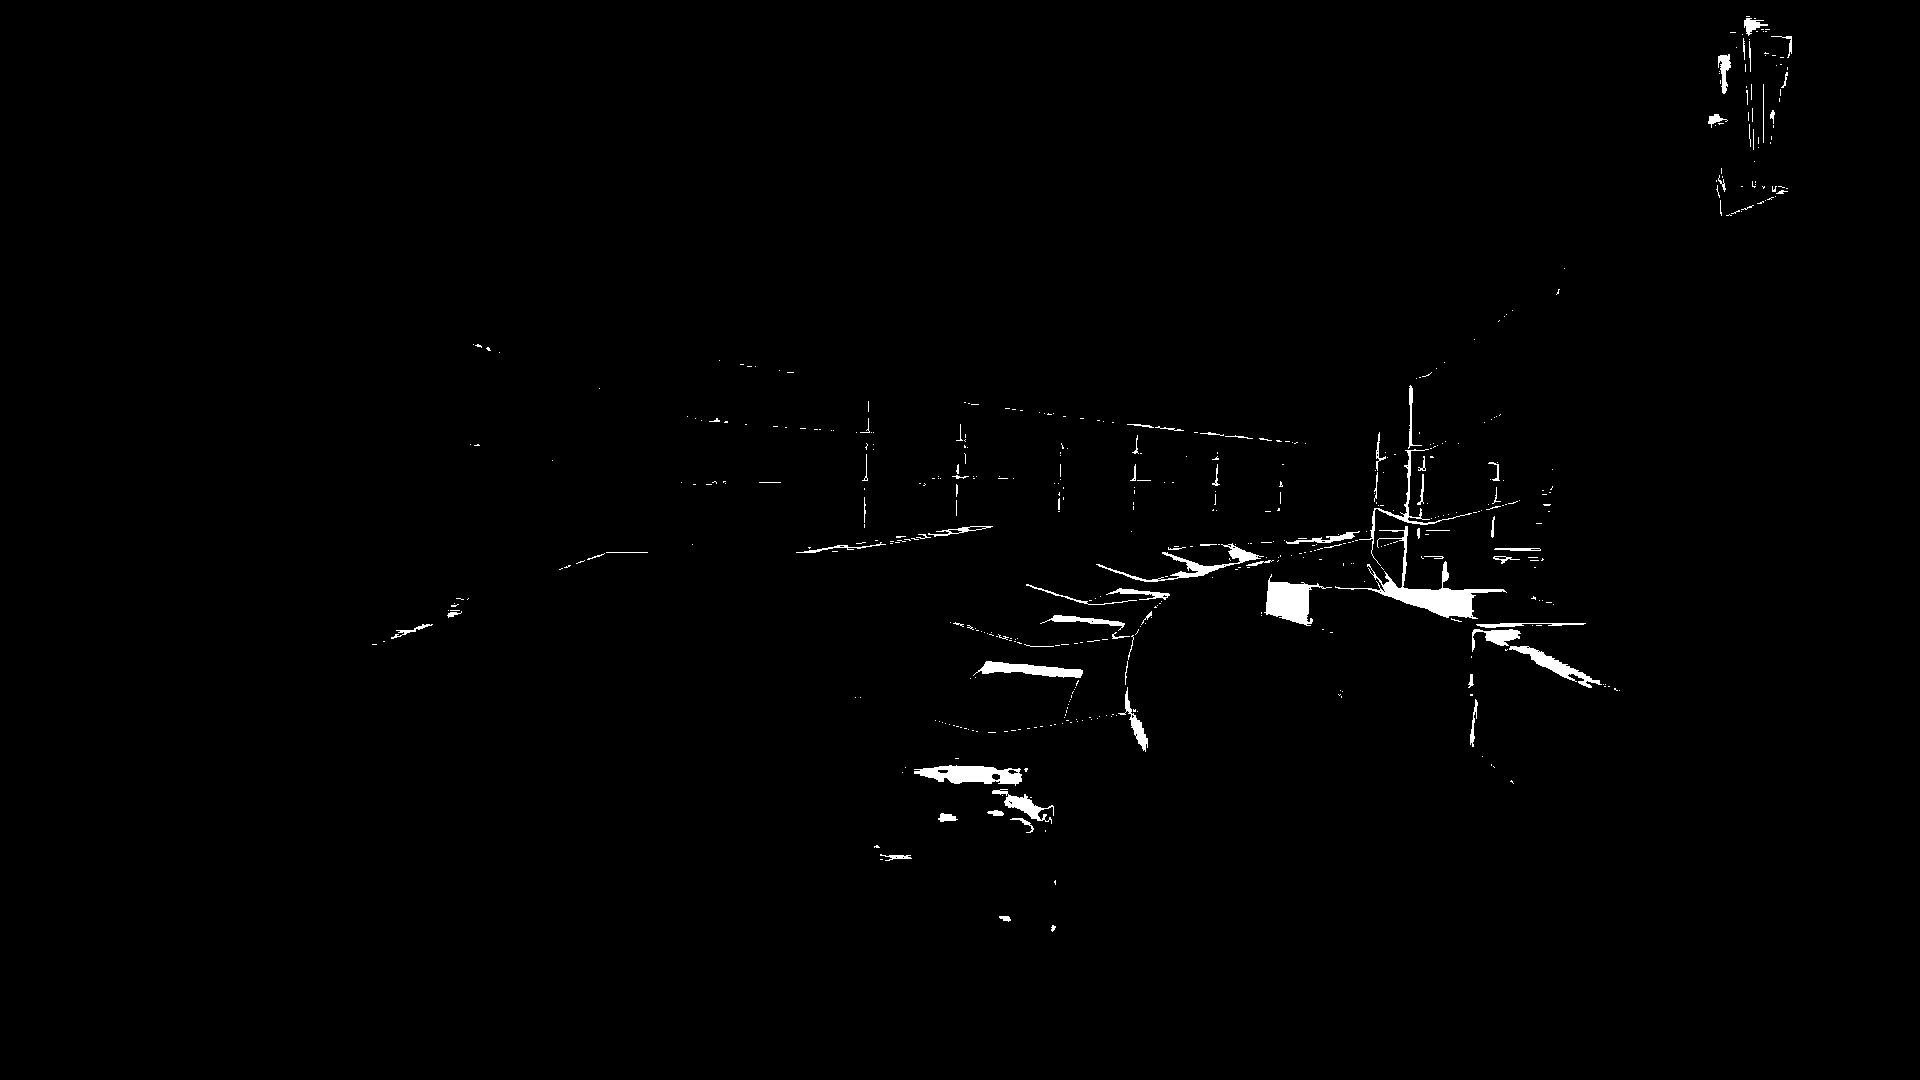
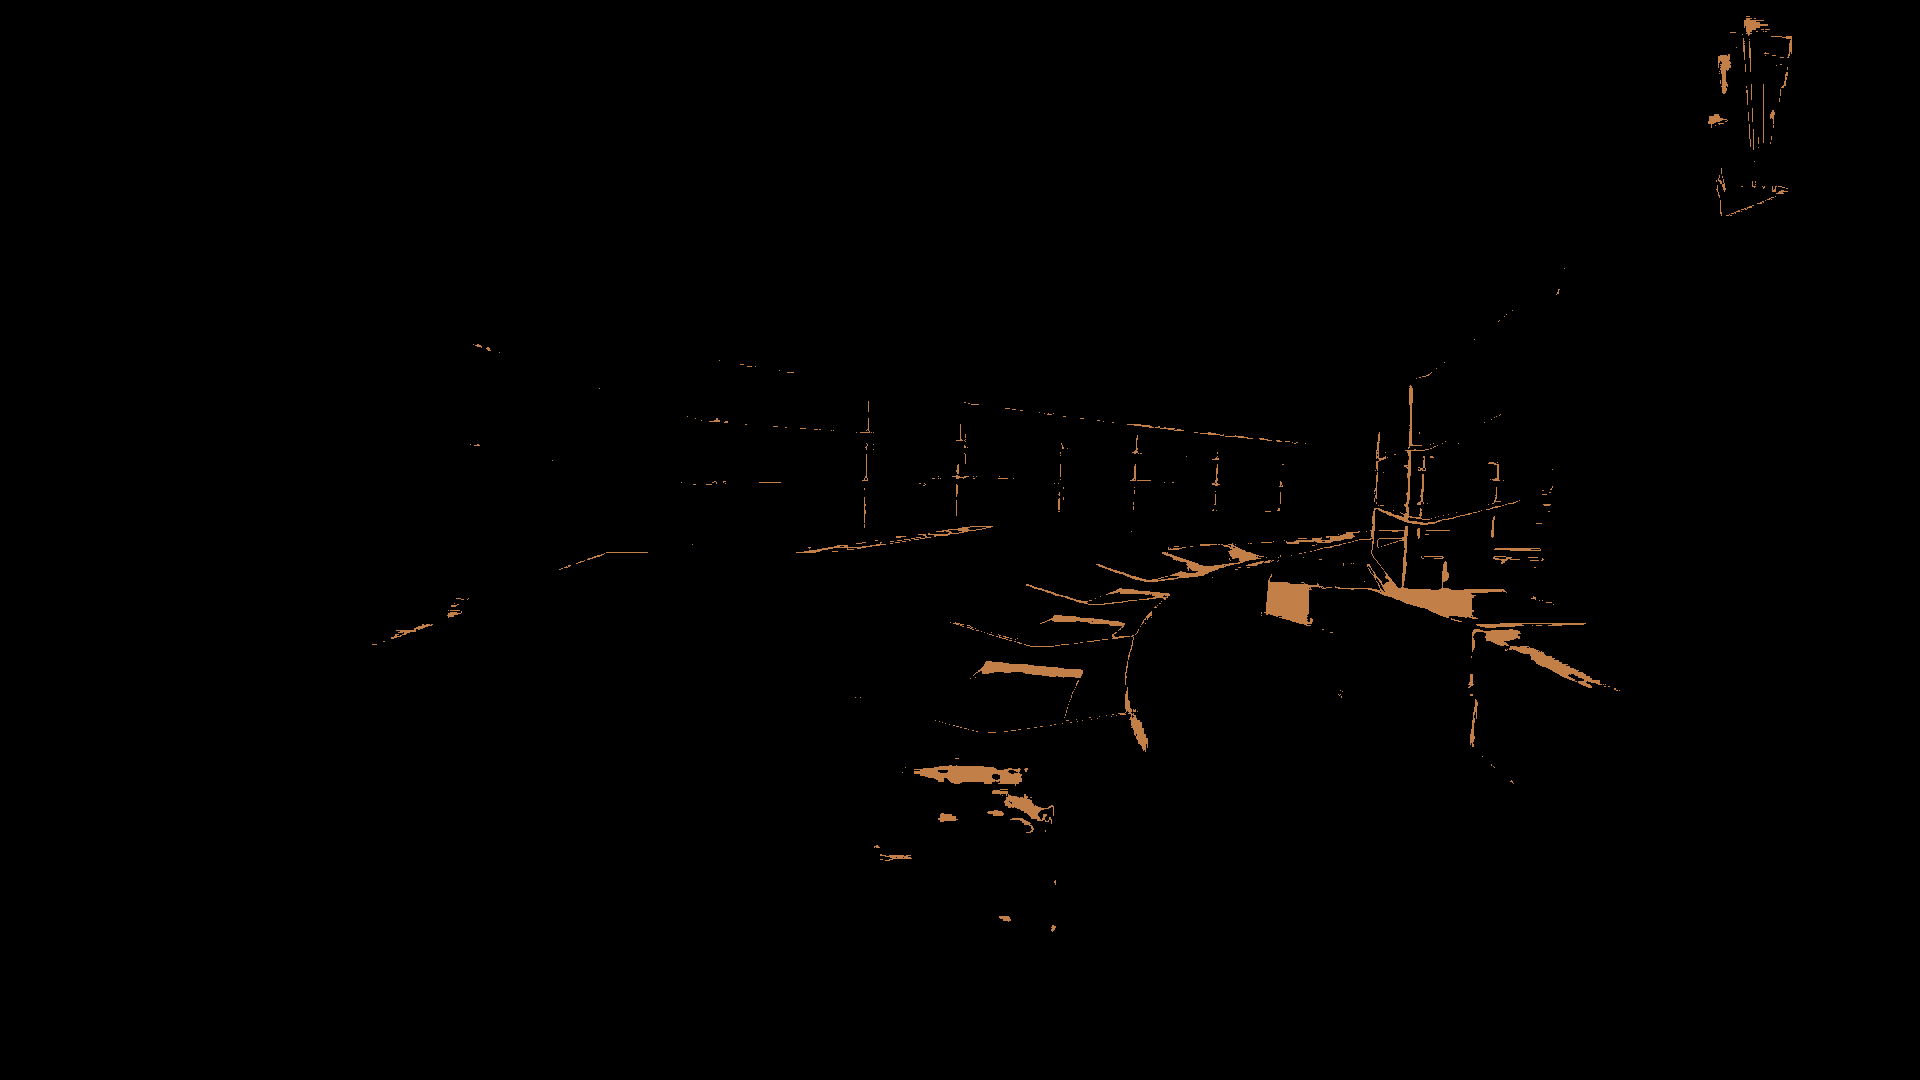
Output better images!

diff --git a/main.m b/main.m
@@ -29,25 +29,36 @@ subset_images = random_subset_images(image_paths, COLOR_SUBSET_SIZE);
 color_centroids = cluster_colors(subset_images)
 
 % Output image of centroid-alized pixels.
-im = imread(image_paths{1});
-[H W C] = size(im);
-pixel_list = reshape(im, H*W, C);
-centroids = knnsearch(color_centroids, double(pixel_list));
-cim = reshape(centroids, H, W);
-imwrite(cim, color_centroids / 255, 'centroid_image.png');
+for i=1:10
+  rand_num = randi(numel(image_paths)); 
+  impath = sprintf('centroid_image_%05d.png', rand_num+image_range(1)-1)
+  im = imread(image_paths{rand_num});
+  [H W C] = size(im);
+  pixel_list = reshape(im, H*W, C);
+  centroids = knnsearch(color_centroids, double(pixel_list));
+  cim = reshape(centroids, H, W);
+  imwrite(cim, color_centroids / 255, impath);
+  imshow(cim, color_centroids / 255);
+end
 
 %% Find track color. (should be ~(200,125,70) for the orange track).
 subset_images = random_subset_images(image_paths, TRACK_COLOR_SUBSET_SIZE);
 [track_color_centroid, track_color_centroid_idx] = track_color(subset_images, color_centroids)
 
 % Output image of just track-colored pixels.
-im = imread(image_paths{1});
-[H W C] = size(im);
-cim = zeros(H*W,C);
-idx = find(centroids==track_color_centroid_idx);
-cim(idx,:) = repmat(track_color_centroid, numel(idx), 1);
-cim = round(reshape(cim, H, W, C));
-imwrite(cim, 'just_the_track.png');
+for i=1:10
+  rand_num = randi(numel(image_paths)); 
+  impath = sprintf('centroid_image_%05d.png', rand_num+image_range(1)-1)
+  impath = sprintf('just_the_track_%05d.png', rand_num+image_range(1)-1)
+  im = imread(image_paths{rand_num});
+  [H W C] = size(im);
+  pixel_list = reshape(im, H*W, C);
+  centroids = knnsearch(color_centroids, double(pixel_list));
+  cim = reshape(centroids, H, W);
+  cim = (cim==track_color_centroid_idx);
+  imwrite(cim, [0 0 0; track_color_centroid / 255], impath);
+  imshow(cim, [0 0 0; track_color_centroid / 255]);
+end
 
 %% Find track width (should be either ~870 or ~280 pixels for the orange track).
 subset_images = random_subset_images(image_paths, TRACK_WIDTH_SUBSET_SIZE);
